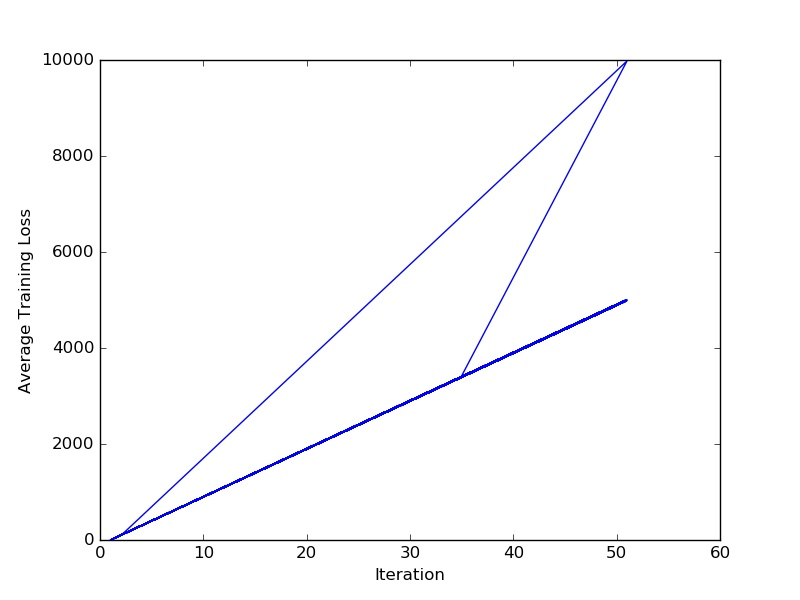
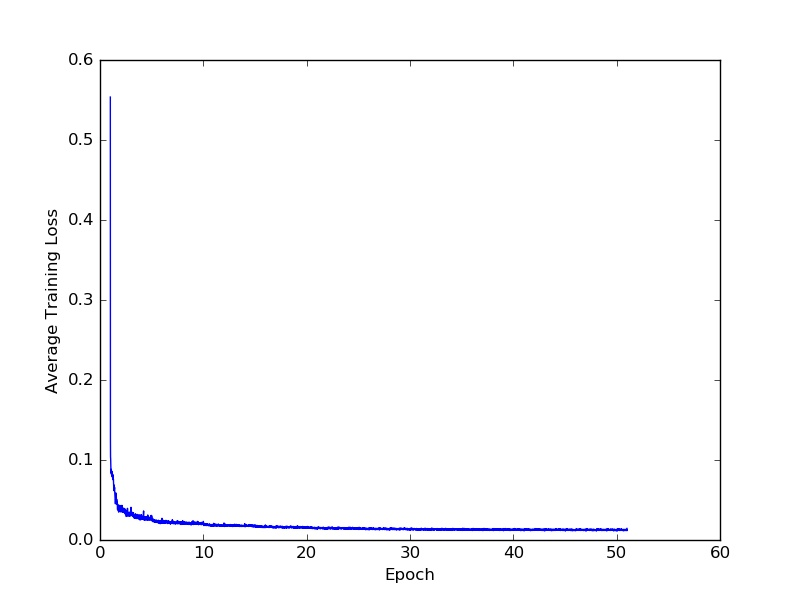
unborked the borked thing

diff --git a/scripts/evaluation/lossGrapher.py b/scripts/evaluation/lossGrapher.py
@@ -71,12 +71,12 @@ def main(argv):
     for item in TPdata:
         d[item[0]].append(item)
     for key, value in d.items():
-        aveTrainLoss = sum(value[2])/float(len(value))
+        aveTrainLoss = sum([x[2] for x in value])/float(len(value))
         TPave.append([key, aveTrainLoss])
     
-    TPave = np.asarray(TPave)
+    TPave = [list(elem) for elem in TPave]
+    #print([i[1] for i in TPave])
 
-    # Graphs:
     # Epoch vs. validation loss
     fig1 = plt.figure()
     plt.plot(CLdata['Epoch'], CLdata['Validation_Loss'], color='b', label='Training Progress, Epoch/Validation Loss')
@@ -103,8 +103,11 @@ def main(argv):
     
     # Epoch vs. ave. training loss
     fig4 = plt.figure()
-    plt.plot(TPave[:,0], TPave[:,1], color='b', label='Training Progress, Epoch/Average Training Loss')
-    plt.xlabel("Iteration")
+        # Sorting the ave list, which for some reason isn't sorted.
+    TPsorted = sorted(TPave)
+
+    plt.plot([i[0] for i in TPsorted], [i[1] for i in TPsorted], color='b', label='Training Progress, Epoch/Average Training Loss')
+    plt.xlabel("Epoch")
     plt.ylabel("Average Training Loss")
     plt.savefig(TPout3)
     plt.close(fig4)
